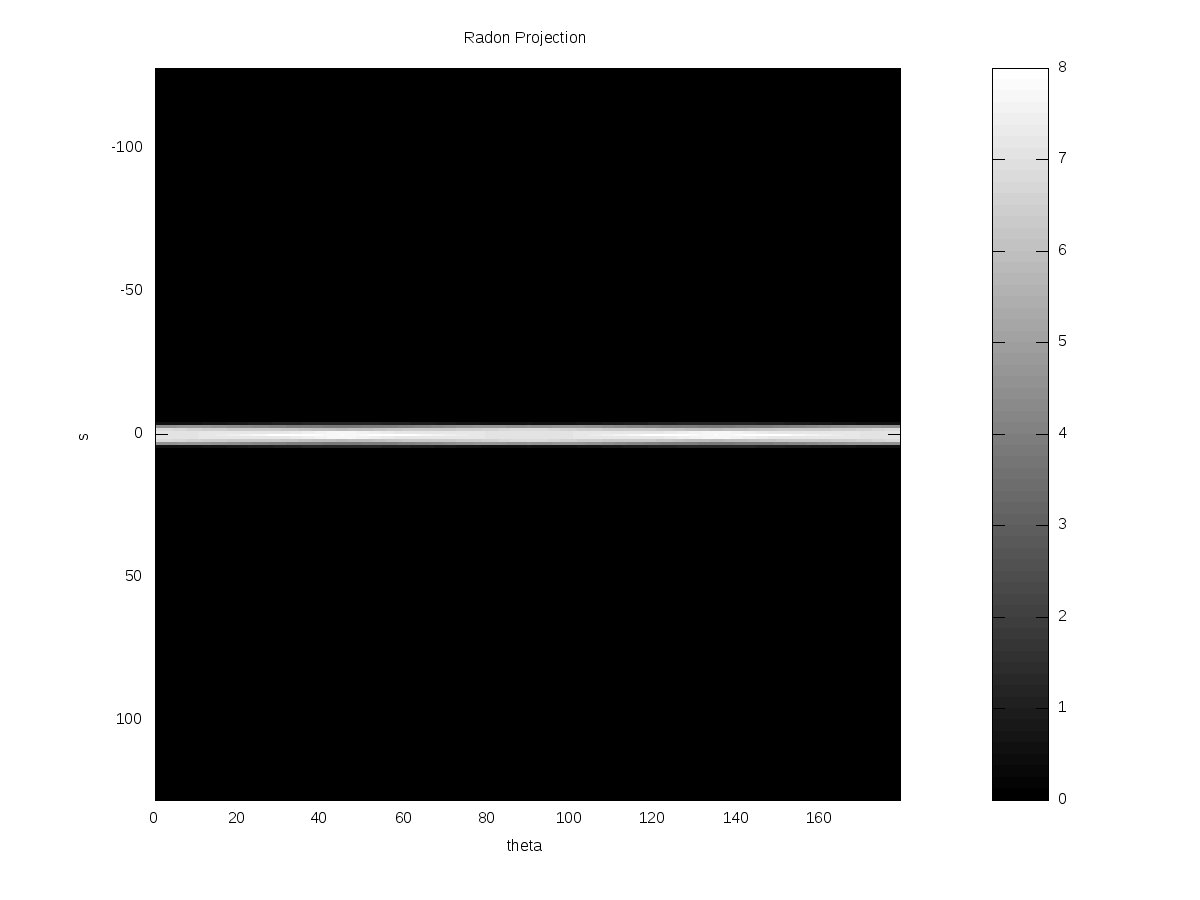
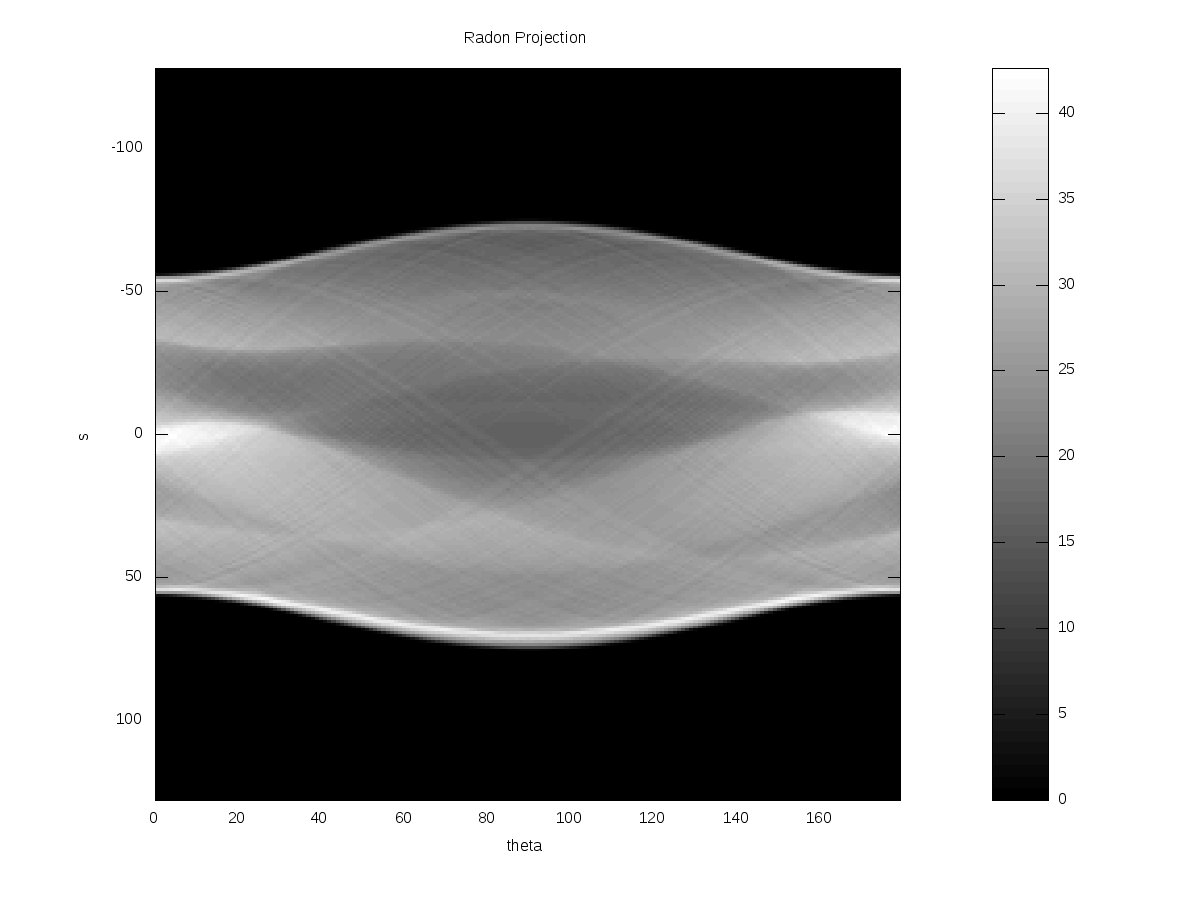
Change phantom to Modified Shepp-Logan

Changed region(s): [[0.1233, 0.2178, 0.7708, 0.7467]]

diff --git a/trunk/start_simulation.m b/trunk/start_simulation.m
@@ -14,20 +14,20 @@ DEBUG = 1;
 %% Parameters
 
 %! Shape of the phantom. Can be 'Shepp-Logan', 'Modified Shepp-Logan', 'dot', 'square', or 'stripe'.
-shape='dot';
+shape='Modified Shepp-Logan'
 
 %! Size of the phantom.
 % This specifies the number of rows and columns in the matrix of Phantom.
 % N_image is suggested to be an odd number.
-N_image = 231;
+N_image = 231
 
 %! Number of slices in Radon scan from 0deg to 180deg (excluding 180deg)
-N_theta = 180;
+N_theta = 180
 
 %! Signal to noise ratio.
-SNR = 0;
+SNR = 0
 
 %! Interpolation method
-interp_m = 'nearest';
+interp_m = 'nearest'
 
 main(shape,N_image,N_theta,SNR,interp_m,DEBUG);
